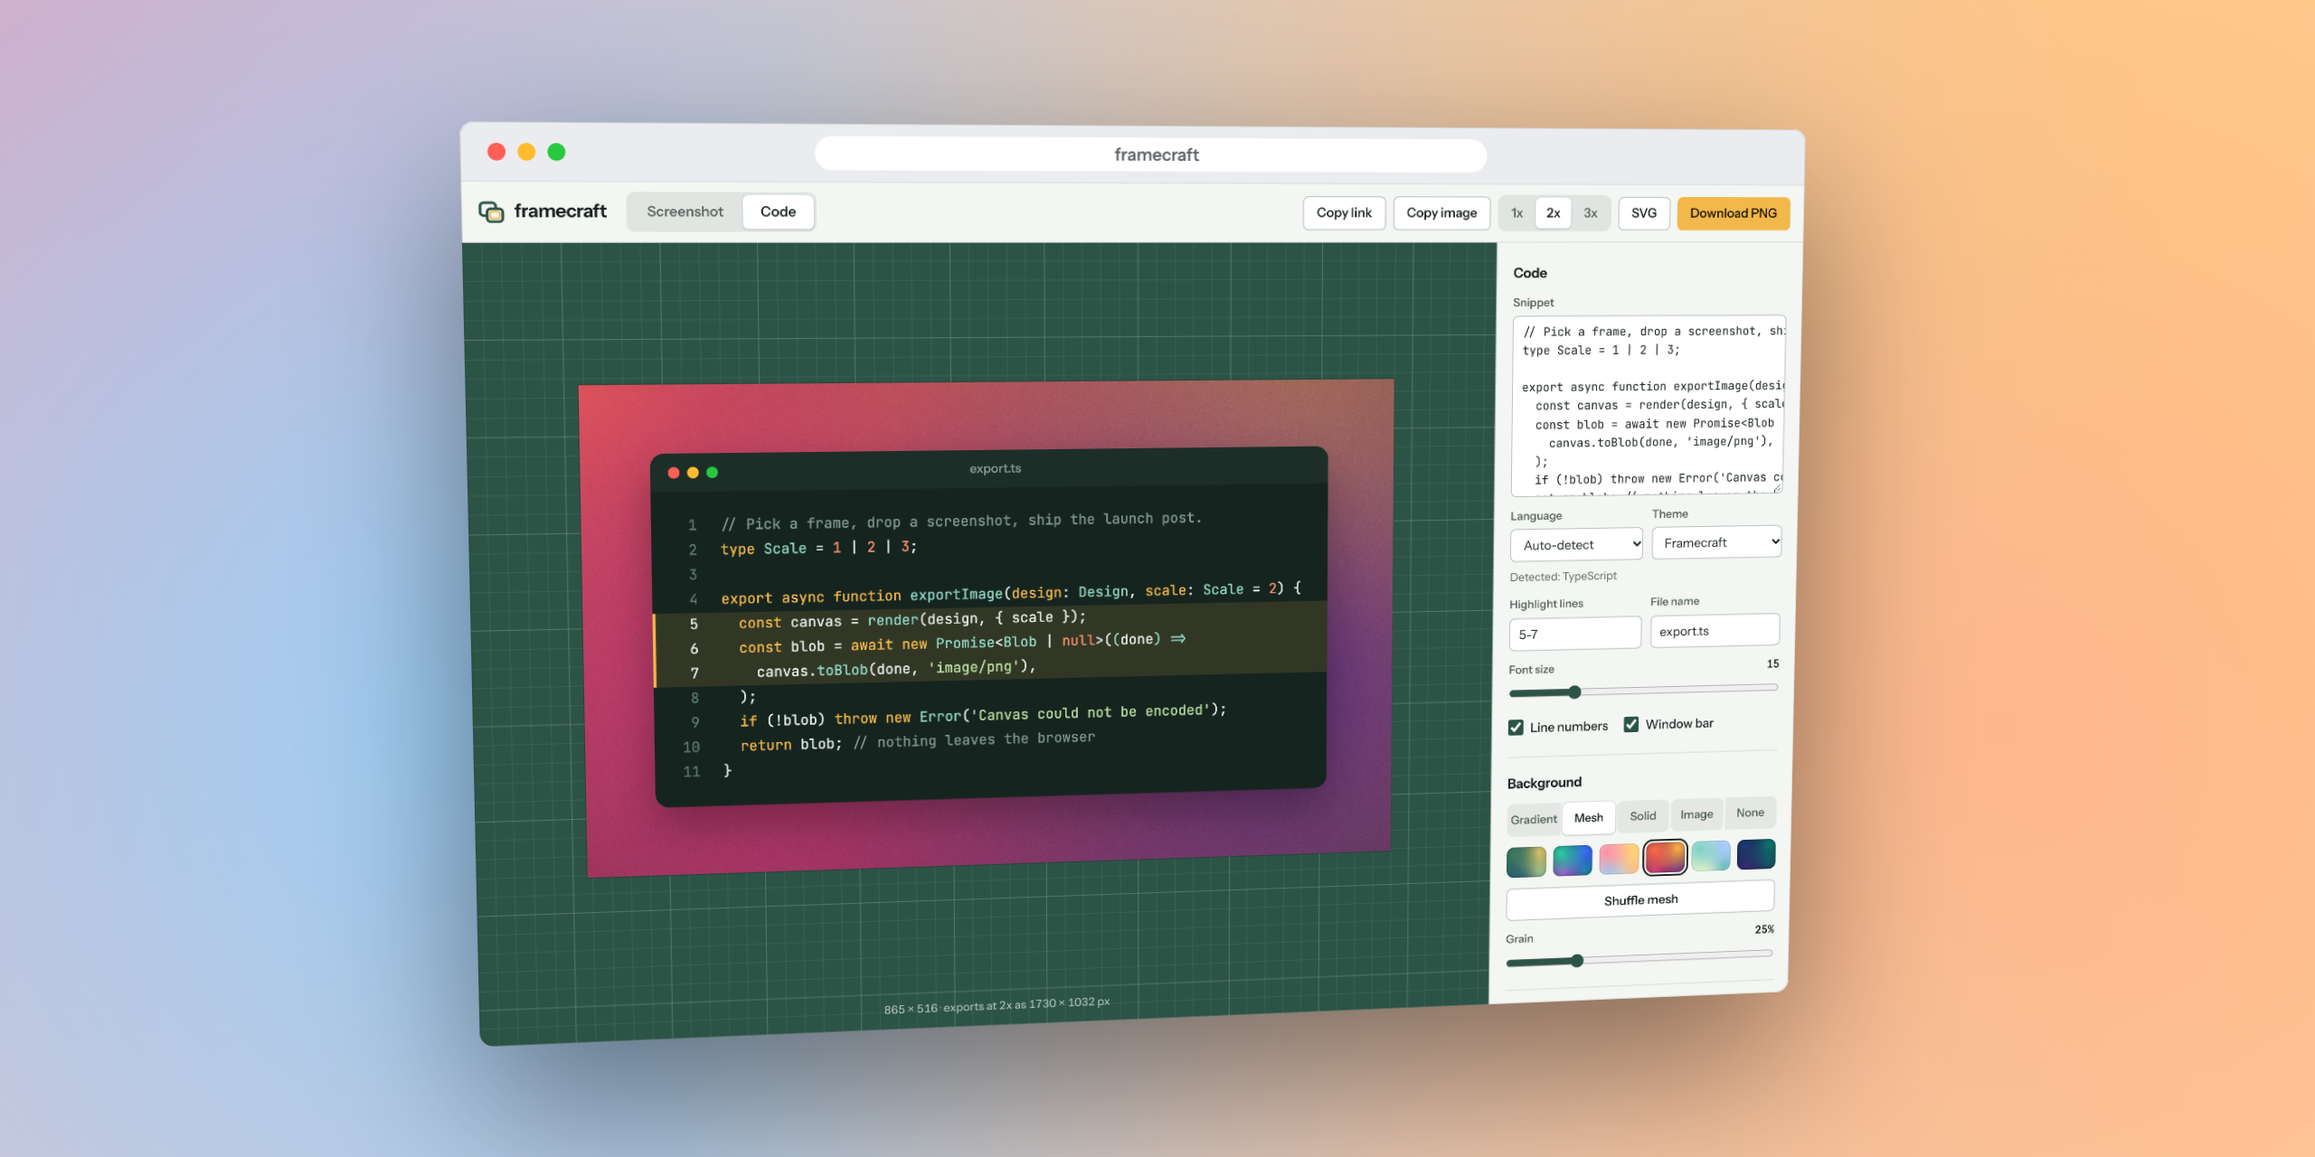
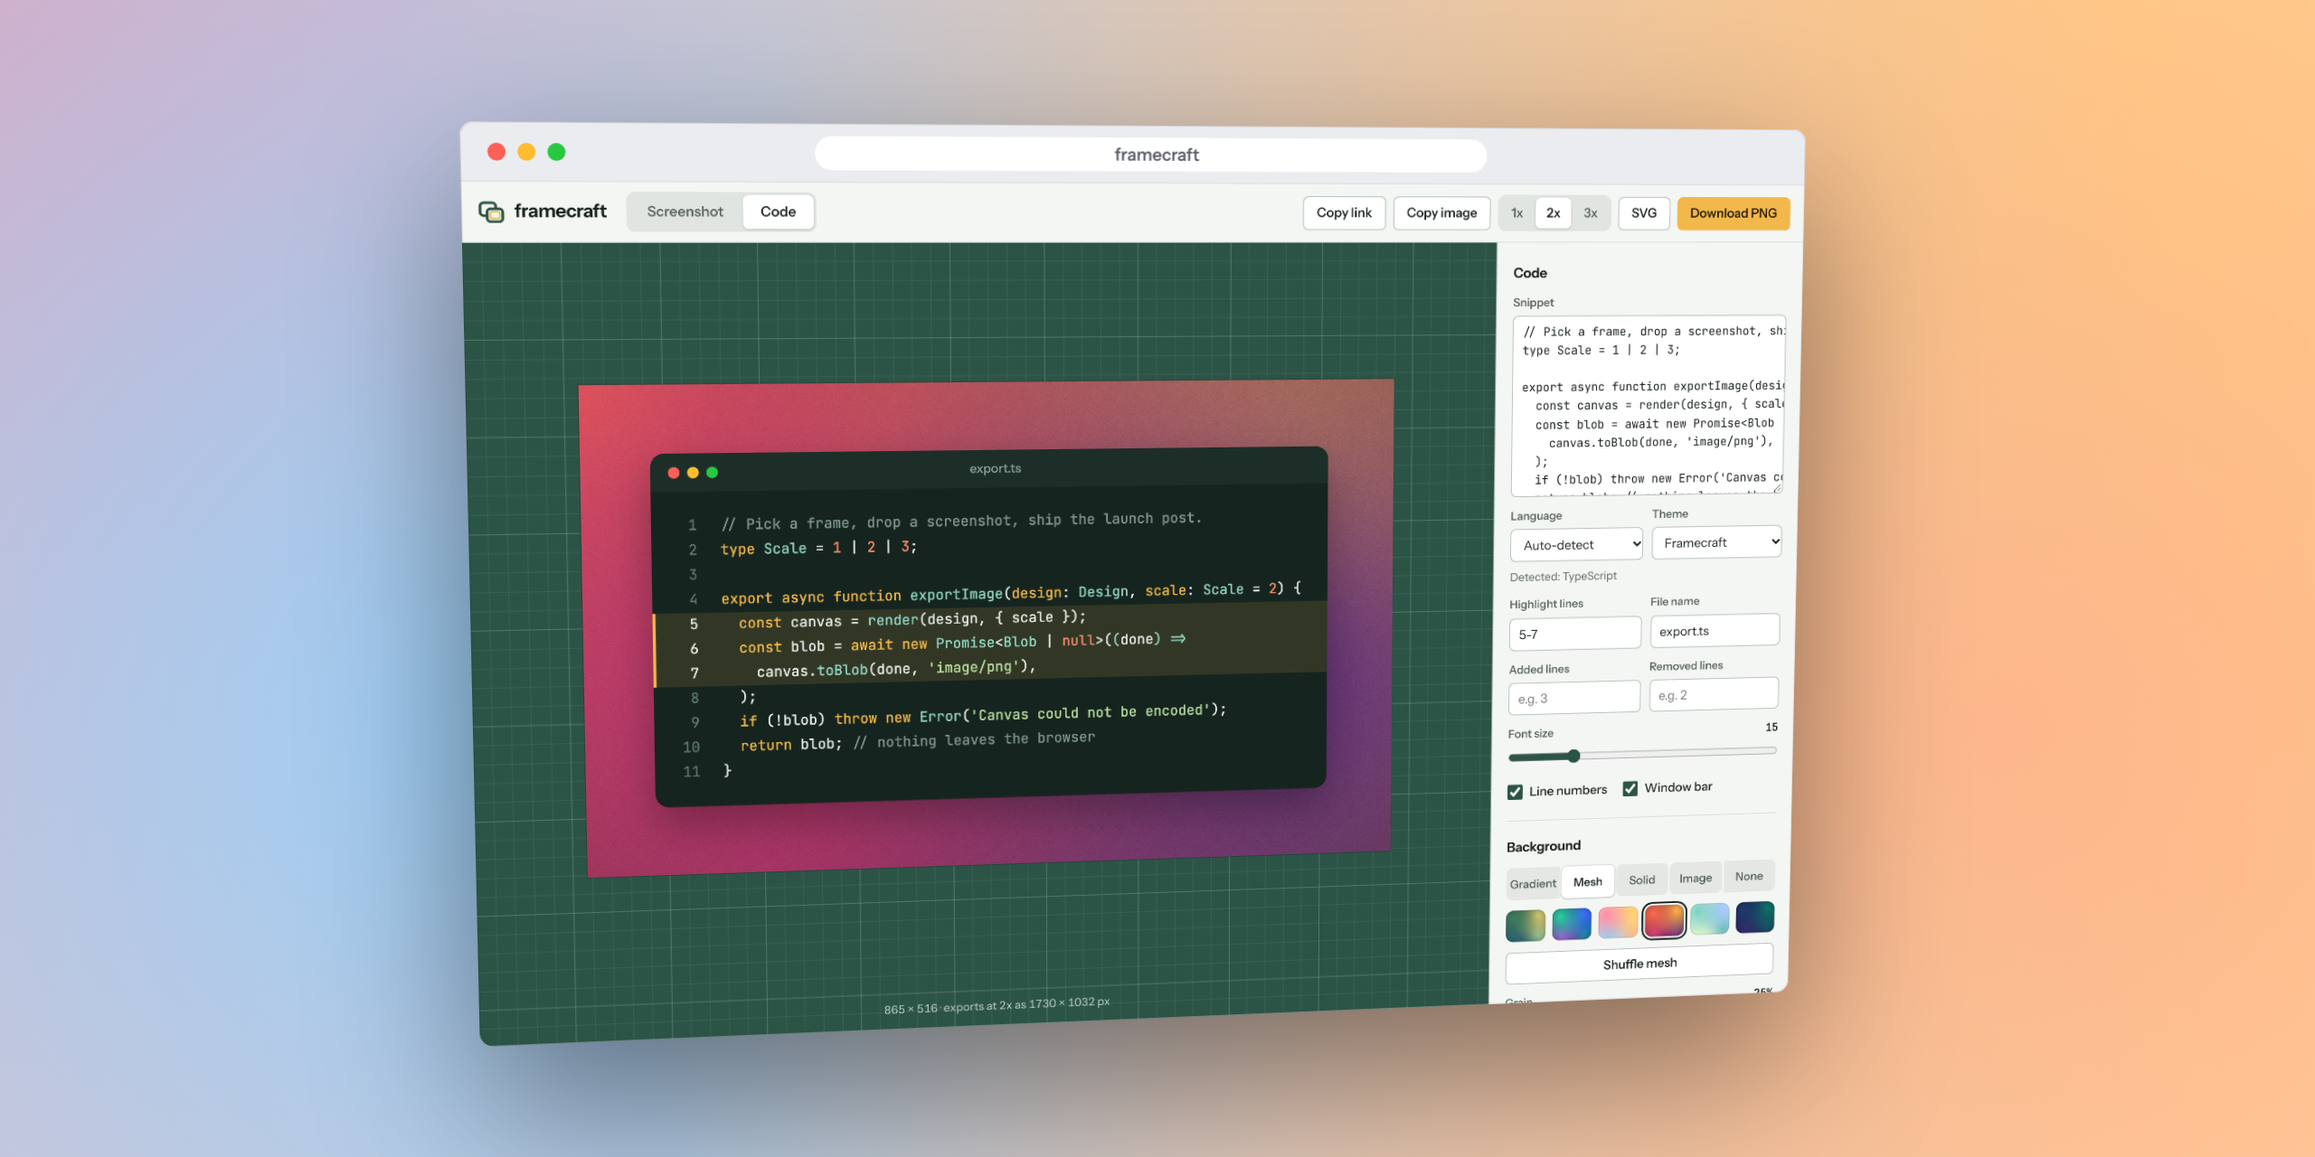
Code mode: mark added and removed lines, like a diff

Changed region(s): [[0.625, 0.5625, 0.7812, 0.8438]]

diff --git a/src/design.ts b/src/design.ts
@@ -54,6 +54,9 @@ export interface Design {
     fontSize: number;
     lineNumbers: boolean;
     highlight: string;
+    /** Lines shown as added or removed, like a diff: same "2, 4-6" form as highlight. */
+    added: string;
+    removed: string;
     title: string;
     bar: boolean;
   };
@@ -112,6 +115,8 @@ export function defaultDesign(): Design {
       fontSize: 15,
       lineNumbers: true,
       highlight: '5-7',
+      added: '',
+      removed: '',
       title: 'export.ts',
       bar: true,
     },
@@ -283,6 +288,8 @@ export function sanitize(input: unknown): Design {
       fontSize: int(code.fontSize, 10, 32, d.code.fontSize),
       lineNumbers: bool(code.lineNumbers, d.code.lineNumbers),
       highlight: str(code.highlight, 200, d.code.highlight),
+      added: str(code.added, 200, d.code.added),
+      removed: str(code.removed, 200, d.code.removed),
       title: str(code.title, 120, d.code.title),
       bar: bool(code.bar, d.code.bar),
     },
@@ -353,17 +360,17 @@ export async function decodeDesign(s: string): Promise<Design | null> {
 
 // ---- templates: the style without the content ----
 
-export type Template = Omit<Design, 'notes' | 'crop' | 'mode' | 'code'> & { code: Omit<Design['code'], 'text' | 'highlight' | 'title'> };
+export type Template = Omit<Design, 'notes' | 'crop' | 'mode' | 'code'> & { code: Omit<Design['code'], 'text' | 'highlight' | 'added' | 'removed' | 'title'> };
 
 export function toTemplate(d: Design): Template {
   const { notes: _n, crop: _c, mode: _m, code, ...rest } = d;
-  const { text: _t, highlight: _h, title: _ti, ...codeStyle } = code;
+  const { text: _t, highlight: _h, added: _a, removed: _r, title: _ti, ...codeStyle } = code;
   return { ...structuredClone(rest), code: { ...codeStyle } };
 }
 
 /** Apply a stored template's style over the current design, keeping its content. */
 export function applyTemplate(current: Design, t: unknown): Design {
   const o = obj(t);
-  const style = sanitize({ ...o, mode: current.mode, notes: current.notes, crop: current.crop, code: { ...obj(o.code), text: current.code.text, highlight: current.code.highlight, title: current.code.title } });
+  const style = sanitize({ ...o, mode: current.mode, notes: current.notes, crop: current.crop, code: { ...obj(o.code), text: current.code.text, highlight: current.code.highlight, added: current.code.added, removed: current.code.removed, title: current.code.title } });
   return { ...style, url: current.url, title: current.title };
 }

diff --git a/src/svg.ts b/src/svg.ts
@@ -1,6 +1,6 @@
 import monoFontUrl from '@fontsource/jetbrains-mono/files/jetbrains-mono-latin-400-normal.woff2?url';
 import sansFontUrl from '@fontsource-variable/instrument-sans/files/instrument-sans-latin-wght-normal.woff2?url';
-import { CODE_THEMES, parseLineRanges, type Highlighted } from './code';
+import { CODE_THEMES, lineMarks, markStyle, type Highlighted } from './code';
 import type { Design } from './design';
 import { layoutCard, layoutScene, type CodeMetrics } from './layout';
 import { GRADIENTS, gradientLine, MESHES, meshBlobs, SHADOW_PRESETS } from './presets';
@@ -85,16 +85,19 @@ export function buildCodeSvg(d: Design, hl: Highlighted, inp: SvgInputs): string
         `<text x="${n(card.w / 2)}" y="${n(b / 2)}" text-anchor="middle" dominant-baseline="central" font-family="'Instrument Sans Variable', system-ui, sans-serif" font-weight="500" font-size="${n(b * 0.33)}" fill="${th.colors.comment}">${esc(d.code.title)}</text>`,
       );
   }
-  const marks = parseLineRanges(d.code.highlight, hl.lines.length);
+  const marks = lineMarks(d.code, hl.lines.length);
   const top = card.content.y + m.padY;
   const textX = m.padX + m.gutter;
   hl.lines.forEach((line, i) => {
     const y = top + i * m.lh;
     const mid = y + m.lh / 2;
-    const on = marks.has(i + 1);
-    if (on) {
-      inner.push(`<rect y="${n(y)}" width="${n(card.w)}" height="${m.lh}" fill="${th.hl}"/>`);
-      inner.push(`<rect y="${n(y)}" width="${n(Math.max(2, m.fs * 0.2))}" height="${m.lh}" fill="${th.colors.keyword}"/>`);
+    const mark = marks.get(i + 1);
+    const on = !!mark;
+    if (mark) {
+      const s = markStyle(th, mark);
+      inner.push(`<rect y="${n(y)}" width="${n(card.w)}" height="${m.lh}" fill="${s.fill}"/>`);
+      inner.push(`<rect y="${n(y)}" width="${n(Math.max(2, m.fs * 0.2))}" height="${m.lh}" fill="${s.edge}"/>`);
+      if (s.sign) inner.push(`<text x="${n(textX - m.fs * 0.85)}" y="${n(mid)}" text-anchor="middle" fill="${s.edge}">${s.sign}</text>`);
     }
     if (d.code.lineNumbers)
       inner.push(`<text x="${n(m.padX + m.gutter - m.fs * 1.6)}" y="${n(mid)}" text-anchor="end" fill="${on ? th.colors.fg : th.lineNo}">${i + 1}</text>`);

diff --git a/src/render.ts b/src/render.ts
@@ -1,4 +1,4 @@
-import { CODE_THEMES, parseLineRanges, type Highlighted } from './code';
+import { CODE_THEMES, lineMarks, markStyle, type Highlighted } from './code';
 import { FULL_CROP, stepRadius, type Crop, type Design, type Note } from './design';
 import { codeMetrics, fitText, labelFont, layoutCard, layoutScene, shotDisplaySize, wholeImageBox, type Box, type CardLayout, type CodeMetrics, type Scene } from './layout';
 import { applyH, homography, invert3, projectCard, type Mat3, type ProjPt } from './perspective';
@@ -364,7 +364,7 @@ function drawShotCard(ctx: Ctx, d: Design, L: CardLayout, img: Img) {
 function drawCodeCard(ctx: Ctx, d: Design, L: CardLayout, hl: Highlighted) {
   const th = CODE_THEMES[d.code.theme];
   const m = codeLayout(d, hl);
-  const marks = parseLineRanges(d.code.highlight, hl.lines.length);
+  const marks = lineMarks(d.code, hl.lines.length);
   ctx.beginPath();
   roundRect(ctx, 0, 0, L.w, L.h, L.radius);
   ctx.clip();
@@ -387,14 +387,18 @@ function drawCodeCard(ctx: Ctx, d: Design, L: CardLayout, hl: Highlighted) {
   hl.lines.forEach((line, i) => {
     const y = top + i * m.lh;
     const mid = y + m.lh / 2;
-    const on = marks.has(i + 1);
-    if (on) {
-      ctx.fillStyle = th.hl;
-      ctx.fillRect(0, y, L.w, m.lh);
-      ctx.fillStyle = th.colors.keyword;
-      ctx.fillRect(0, y, Math.max(2, m.fs * 0.2), m.lh);
-    }
+    const mark = marks.get(i + 1);
+    const on = !!mark;
     ctx.font = `400 ${m.fs}px ${MONO}`;
+    if (mark) {
+      const s = markStyle(th, mark);
+      ctx.fillStyle = s.fill;
+      ctx.fillRect(0, y, L.w, m.lh);
+      ctx.fillStyle = s.edge;
+      ctx.fillRect(0, y, Math.max(2, m.fs * 0.2), m.lh);
+      ctx.textAlign = 'center';
+      if (s.sign) ctx.fillText(s.sign, m.padX + m.gutter - m.fs * 0.85, mid);
+    }
     if (d.code.lineNumbers) {
       ctx.textAlign = 'right';
       ctx.fillStyle = on ? th.colors.fg : th.lineNo;

diff --git a/tests/code.test.ts b/tests/code.test.ts
@@ -1,5 +1,5 @@
 import { describe, expect, it } from 'vitest';
-import { CODE_THEMES, DETECT_SAMPLE, highlight, htmlToLines, MAX_HIGHLIGHT_LINE, parseLineRanges } from '../src/code';
+import { CODE_THEMES, DETECT_SAMPLE, highlight, htmlToLines, lineMarks, markStyle, MAX_HIGHLIGHT_LINE, parseLineRanges } from '../src/code';
 import { defaultDesign, MAX_CODE } from '../src/design';
 
 describe('parseLineRanges', () => {
@@ -14,6 +14,23 @@ describe('parseLineRanges', () => {
   });
   it('is empty for an empty spec', () => {
     expect(parseLineRanges('', 10).size).toBe(0);
+  });
+});
+
+describe('lineMarks', () => {
+  it('marks highlighted, added and removed lines; removed wins, then added', () => {
+    const m = lineMarks({ highlight: '1-4', added: '3-4', removed: '4, 9' }, 6);
+    expect([...m].sort(([a], [b]) => a - b)).toEqual([[1, 'hl'], [2, 'hl'], [3, 'add'], [4, 'del']]);
+  });
+  it('gives added and removed lines a tint of the theme colour, an edge and a sign', () => {
+    const th = CODE_THEMES['github-dark'];
+    expect(markStyle(th, 'add')).toEqual({ fill: 'rgba(126,231,135,0.16)', edge: '#7ee787', sign: '+' });
+    expect(markStyle(th, 'del').sign).toBe('\u2212');
+    expect(markStyle(CODE_THEMES['github-light'], 'add').fill).toBe('rgba(17,99,41,0.12)');
+    expect(markStyle(th, 'hl')).toEqual({ fill: th.hl, edge: th.colors.keyword, sign: '' });
+  });
+  it('every theme has hex add and del colours', () => {
+    for (const th of Object.values(CODE_THEMES)) for (const k of ['add', 'del'] as const) expect(th.colors[k]).toMatch(/^#[0-9a-f]{6}$/);
   });
 });
 

diff --git a/e2e/app.spec.ts b/e2e/app.spec.ts
@@ -136,6 +136,27 @@ test('exports a standalone SVG for code', async ({ page }) => {
   expect(svg).toContain('exportImage');
 });
 
+test('added and removed lines show in the preview and the SVG, and travel in the link', async ({ page }) => {
+  await drawn(page);
+  const before = await page.locator('#preview').evaluate((c: HTMLCanvasElement) => c.toDataURL());
+  await page.getByRole('textbox', { name: 'Added lines' }).fill('9');
+  await page.getByRole('textbox', { name: 'Removed lines' }).fill('8');
+  await drawn(page);
+  expect(await page.locator('#preview').evaluate((c: HTMLCanvasElement) => c.toDataURL())).not.toBe(before);
+
+  const dl = page.waitForEvent('download');
+  await page.getByRole('button', { name: 'SVG' }).click();
+  const svg = await readFile((await (await dl).path())!, 'utf8');
+  expect(svg).toMatch(/>\+<\/text>/);
+  expect(svg).toContain('>−</text>');
+
+  await page.waitForTimeout(400); // URL updates are debounced
+  const fresh = await page.context().newPage();
+  await fresh.goto(page.url());
+  await expect(fresh.getByRole('textbox', { name: 'Added lines' })).toHaveValue('9');
+  await expect(fresh.getByRole('textbox', { name: 'Removed lines' })).toHaveValue('8');
+});
+
 test('blocks SVG export while the card is tilted', async ({ page }) => {
   await page.getByLabel(/Turn sideways/).fill('12');
   await expect(page.getByRole('button', { name: 'SVG' })).toHaveAttribute('aria-disabled', 'true');

diff --git a/src/code.ts b/src/code.ts
@@ -167,6 +167,23 @@ export function highlight(code: string, lang: string): Highlighted {
   return plain('plaintext');
 }
 
+export type LineMark = 'hl' | 'add' | 'del';
+
+/** Each marked line (1-based) from the highlight, added and removed specs. A line in two lists: removed wins, then added. */
+export function lineMarks(c: { highlight: string; added: string; removed: string }, maxLine: number): Map<number, LineMark> {
+  const out = new Map<number, LineMark>();
+  for (const [spec, mark] of [[c.highlight, 'hl'], [c.added, 'add'], [c.removed, 'del']] as const) for (const i of parseLineRanges(spec, maxLine)) out.set(i, mark);
+  return out;
+}
+
+/** Row tint, left edge colour and gutter sign for a marked line. */
+export function markStyle(th: Theme, mark: LineMark): { fill: string; edge: string; sign: string } {
+  if (mark === 'hl') return { fill: th.hl, edge: th.colors.keyword, sign: '' };
+  const c = th.colors[mark];
+  const n = parseInt(c.slice(1), 16);
+  return { fill: `rgba(${n >> 16},${(n >> 8) & 255},${n & 255},${th.dark ? 0.16 : 0.12})`, edge: c, sign: mark === 'add' ? '+' : '\u2212' };
+}
+
 /** Parse "3, 5-7" into a set of 1-based line numbers. Junk is ignored; ranges are capped to maxLine. */
 export function parseLineRanges(spec: string, maxLine: number): Set<number> {
   const out = new Set<number>();

diff --git a/index.html b/index.html
@@ -101,6 +101,10 @@
             <label class="field"><span>Highlight lines</span><input type="text" data-bind="code.highlight" placeholder="e.g. 2, 4-6" maxlength="200" spellcheck="false" /></label>
             <label class="field"><span>File name</span><input type="text" data-bind="code.title" maxlength="120" spellcheck="false" /></label>
           </div>
+          <div class="pair">
+            <label class="field"><span>Added lines</span><input type="text" data-bind="code.added" placeholder="e.g. 3" maxlength="200" spellcheck="false" /></label>
+            <label class="field"><span>Removed lines</span><input type="text" data-bind="code.removed" placeholder="e.g. 2" maxlength="200" spellcheck="false" /></label>
+          </div>
           <div class="field range"><span><label for="r-code-fontSize">Font size</label><output for="r-code-fontSize" data-out="code.fontSize"></output></span><input id="r-code-fontSize" type="range" min="10" max="32" step="1" data-bind="code.fontSize" /></div>
           <div class="checks">
             <label class="check"><input type="checkbox" data-bind="code.lineNumbers" /> Line numbers</label>

diff --git a/tests/design.test.ts b/tests/design.test.ts
@@ -137,6 +137,8 @@ describe('templates', () => {
     src.padding = 20;
     src.code.theme = 'nord';
     src.code.text = 'secret code';
+    src.code.added = '4';
+    src.code.removed = '5';
     src.notes.push({ t: 'step', x: 0.5, y: 0.5, x2: 0, y2: 0, w: 0, h: 0, n: 1, c: '#ff4d3d' });
     const t = JSON.parse(JSON.stringify(toTemplate(src)));
     expect(JSON.stringify(t)).not.toContain('secret code');
@@ -153,6 +155,7 @@ describe('templates', () => {
     expect(out.padding).toBe(20);
     expect(out.code.theme).toBe('nord');
     expect(out.code.text).toBe('mine');
+    expect([out.code.added, out.code.removed]).toEqual(['', '']); // line marks are content, like the text
     expect(out.mode).toBe('shot');
     expect(out.url).toBe('my.site');
   });

diff --git a/tests/svg.test.ts b/tests/svg.test.ts
@@ -53,4 +53,15 @@ describe('buildCodeSvg', () => {
     expect(on.match(/<rect y=/g)!.length).toBe(2);
     expect(off).not.toMatch(/<rect y=/);
   });
+
+  it('marks added and removed lines with a tint and a sign', () => {
+    const svg = build((d) => {
+      d.code.highlight = '';
+      d.code.added = '1';
+      d.code.removed = '2';
+    });
+    expect(svg.match(/<rect y=/g)!.length).toBe(4);
+    expect(svg).toMatch(/text-anchor="middle" fill="#[0-9a-f]{6}">\+<\/text>/);
+    expect(svg).toContain('>\u2212</text>');
+  });
 });

diff --git a/README.md b/README.md
@@ -33,7 +33,8 @@ npm run dev        # then open http://localhost:4210
 
 - Drop an image on the page, paste it with Ctrl+V / ⌘V, or pick a file (PNG, JPEG, WebP, GIF, AVIF, SVG). An SVG
   is drawn 2000 px on its long side, so a diagram stays sharp on a 2x export; its scripts never run and it loads
-  nothing from the network.
+  nothing from the network. Safari's engine cannot export an SVG with HTML inside (`foreignObject`), so there it is
+  refused with a message; use a PNG of it instead.
 - Frames: none, browser window (with an editable address), macOS window (with a title), phone. Light or dark windows.
 - Crop: pick Crop and the whole image shows with the crop outlined; drag over the part to keep. From the keyboard,
   arrow keys move the crop, Alt+arrow keys resize it and Delete shows the whole image again; so does
@@ -70,6 +71,11 @@ npm run dev        # then open http://localhost:4210
 - Syntax highlighting for 24 languages with [highlight.js](https://highlightjs.org/), including automatic language detection (from the first 4000 characters, so a long paste stays quick). Text with a line over 1000 characters, such as minified code, stays uncoloured: highlighting slows down sharply on very long lines.
 - Themes: Framecraft, One Dark, Dracula, Nord, GitHub Dark, GitHub Light, Solarized Light (palettes follow the published schemes they are named after).
 - Line numbers, highlighted lines (`2, 4-6`), file name in the window bar, font size.
+- Added and removed lines, like a diff, to show a change: list them (`4`, `3`) and they get a green or red tint, an edge
+  and a `+` or `−` sign beside the line number, in the theme's own diff colours. The code keeps its syntax colours.
+  A line in more than one list shows as removed, then added, then highlighted.
+
+<img src="docs/diff-card.png" alt="A TypeScript function in GitHub Dark with line 3 marked removed in red and line 4 marked added in green" width="560">
 
 **Both modes**
 
@@ -167,7 +173,6 @@ Not built yet:
 - SVG export for screenshot mode.
 - A custom gradient editor.
 - More frames (iPad, Android, Windows window) and line wrapping for long code lines.
-- Diff-style added/removed line markers in code mode.
 
 ## Contributing
 

diff --git a/CHANGELOG.md b/CHANGELOG.md
@@ -5,8 +5,27 @@ All notable changes to this project are documented here. The format follows
 
 ## [Unreleased]
 
+### Added
+
+- Round 15 ("feature-2"): **added and removed lines in code mode**, to show a change in a launch post or changelog
+  image (it was on the roadmap; code cards could only highlight lines). Two new fields, "Added lines" and "Removed
+  lines", take the same `2, 4-6` form as "Highlight lines". Marked lines get a tint of the theme's diff colour, an edge
+  and a `+` or `−` sign in the gutter, in the PNG and the SVG; syntax colours stay. Removed wins over added, added
+  over highlighted. One place decides this (`lineMarks` and `markStyle` in `src/code.ts`), used by `src/render.ts`
+  and `src/svg.ts`. The new `code.added` and `code.removed` design fields travel in the share link; templates leave
+  them out, like the snippet and its highlighted lines. Unit tests (marks, colours, SVG output, templates) and one e2e
+  test (preview changes, SVG has the signs, a fresh page from the link has the fields). README image
+  `docs/diff-card.png` made with framecraft by `scripts/readme-images.mjs`; the app screenshots were regenerated too,
+  since the sidebar has the new fields.
+
 ### Fixed
 
+- Round 15: **an SVG with HTML inside (`foreignObject`) could block every export in Safari** (round 14's reported
+  gap). Safari's engine treats such an SVG as cross-origin and taints the canvas it is drawn on, after which PNG
+  export, copying and pixelation fail. `decodeSvg` now reads one pixel back after drawing; if the canvas is tainted,
+  the file is refused with "This browser cannot export an SVG with HTML inside it". Chromium draws such SVGs cleanly
+  and keeps them. The e2e test accepts either outcome but never a loaded image that cannot export; WebKit runs it
+  only in CI (no WebKit locally), and Safari itself was not tried by hand.
 - Round 14 ("launch"): checked the two reported gaps that were bugs first, each with an e2e test seen to fail
   before the fix:
   - **SVG files were refused as a screenshot** (or a background image): `createImageBitmap` does not decode them.
